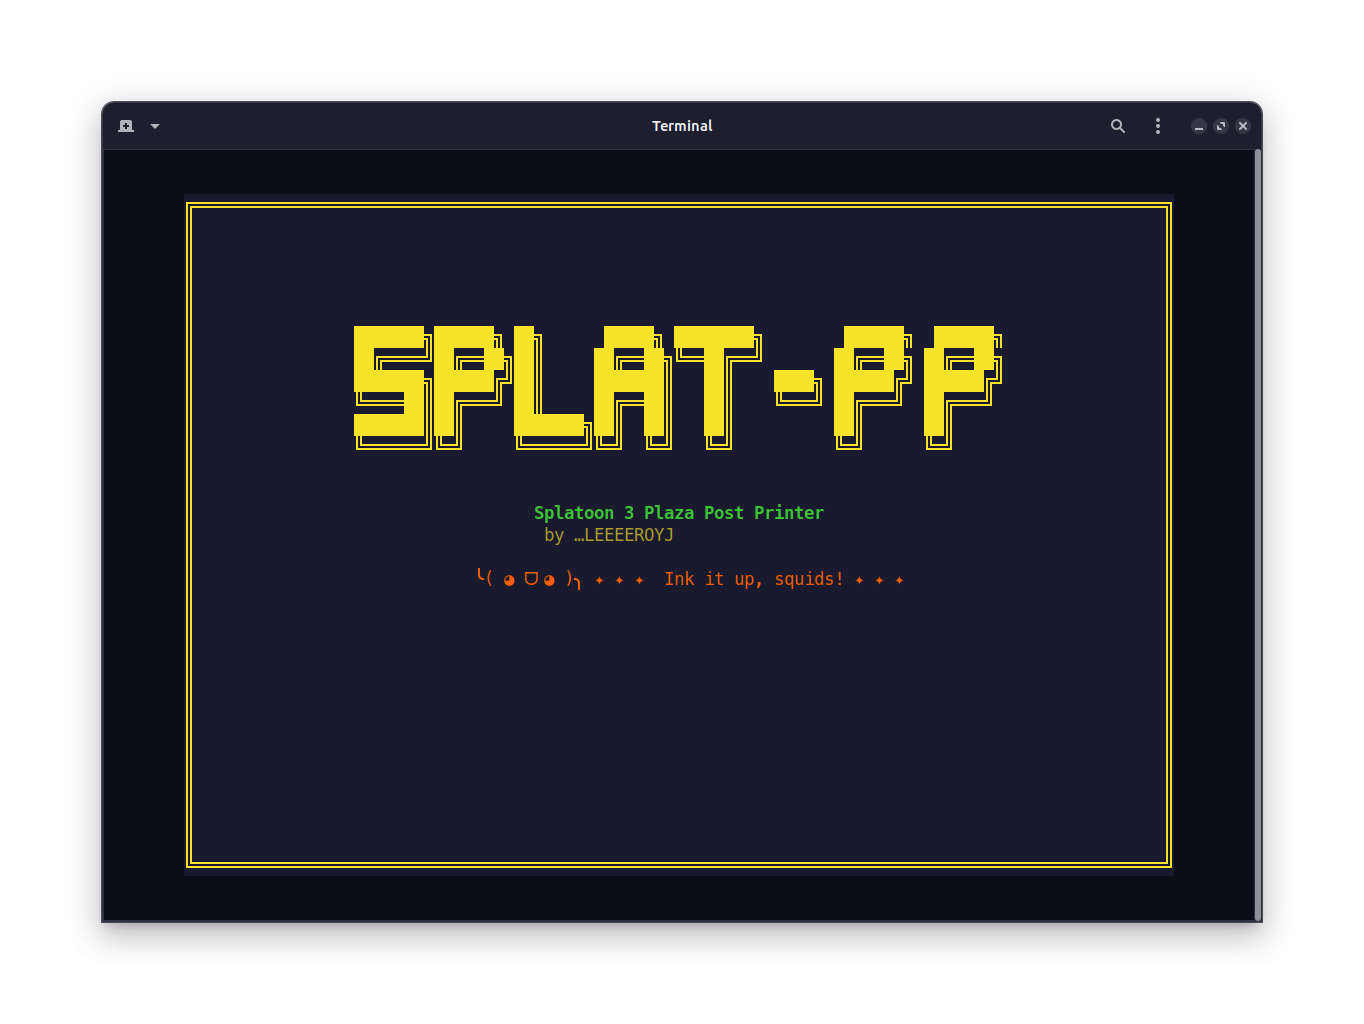
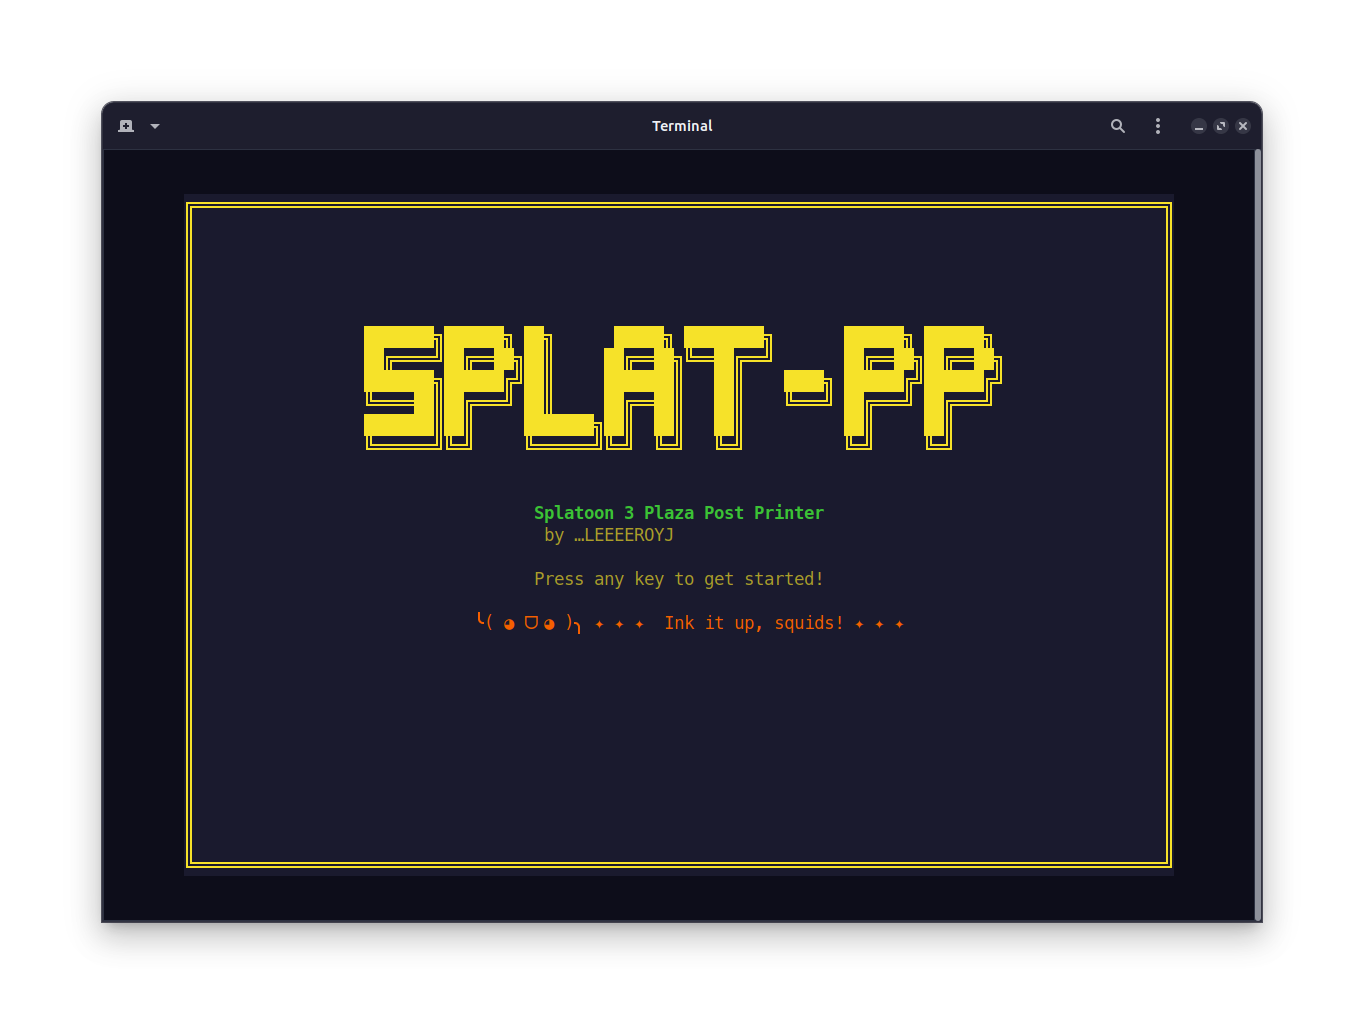
formatting fixes

diff --git a/splat-pp-tui.py b/splat-pp-tui.py
@@ -80,7 +80,9 @@ SPLASH_ART = r"""
   ╚══════╝╚═╝     ╚══════╝╚═╝  ╚═╝   ╚═╝          ╚═╝     ╚═╝     
 [/bold #F6E229]"""
 
-SPLASH_SUB = "[bold #3BC335]  Splatoon 3 Plaza Post Printer[/bold #3BC335] \n [dim #F6E229]  by …LEEEEROYJ [/dim #F6E229]"
+SPLASH_SUB = "[bold #3BC335]  Splatoon 3 Plaza Post Printer[/bold #3BC335] \n \
+[dim #F6E229]  by …LEEEEROYJ [/dim #F6E229] \n\n \
+[dim #F6E229] Press any key to get started![/dim #F6E229]"
 
 SPLAT_DECO = "[#F55F00]  ╰( ◕ ᗜ ◕ )╮ ✦ ✦ ✦  Ink it up, squids! ✦ ✦ ✦[/#F55F00]"
 

diff --git a/README.md b/README.md
@@ -96,10 +96,8 @@ The script is safe to re-run. Each step is guarded and skipped if already comple
 python splat-pp-tui.py
 ```
 
-Follow the prompts to flash!
-
+Press any key on the spash screen adn then follow the prompts to flash! The TUI expects your source images to be in the img/ directory.
 ![Splat-PP TUI](splat-pp-tui.png)
-
 
 ### The 1 Liner
 
